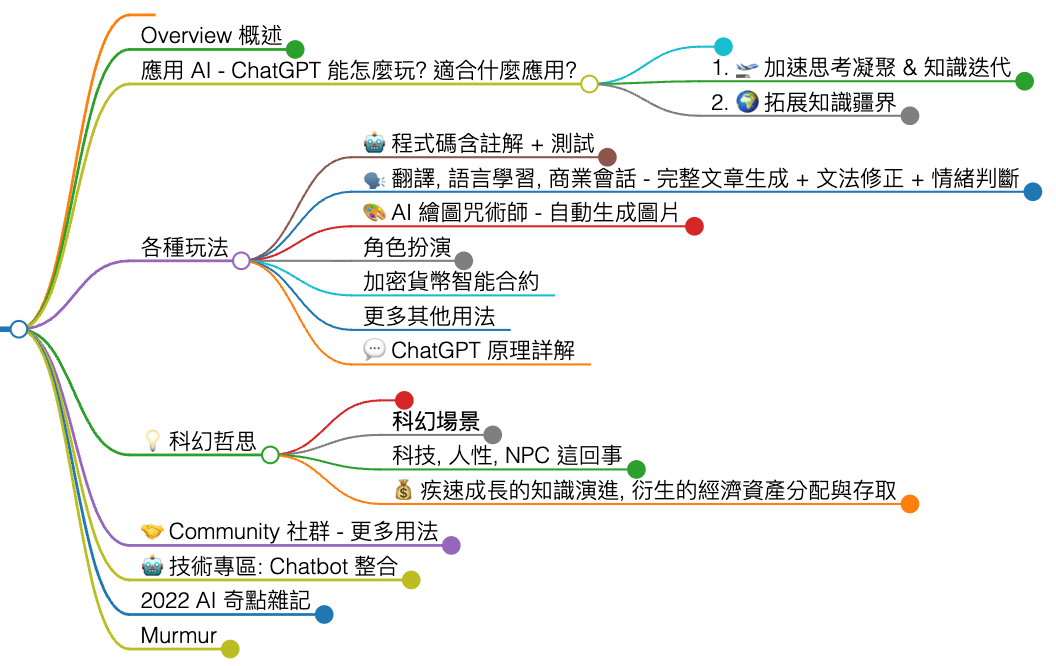
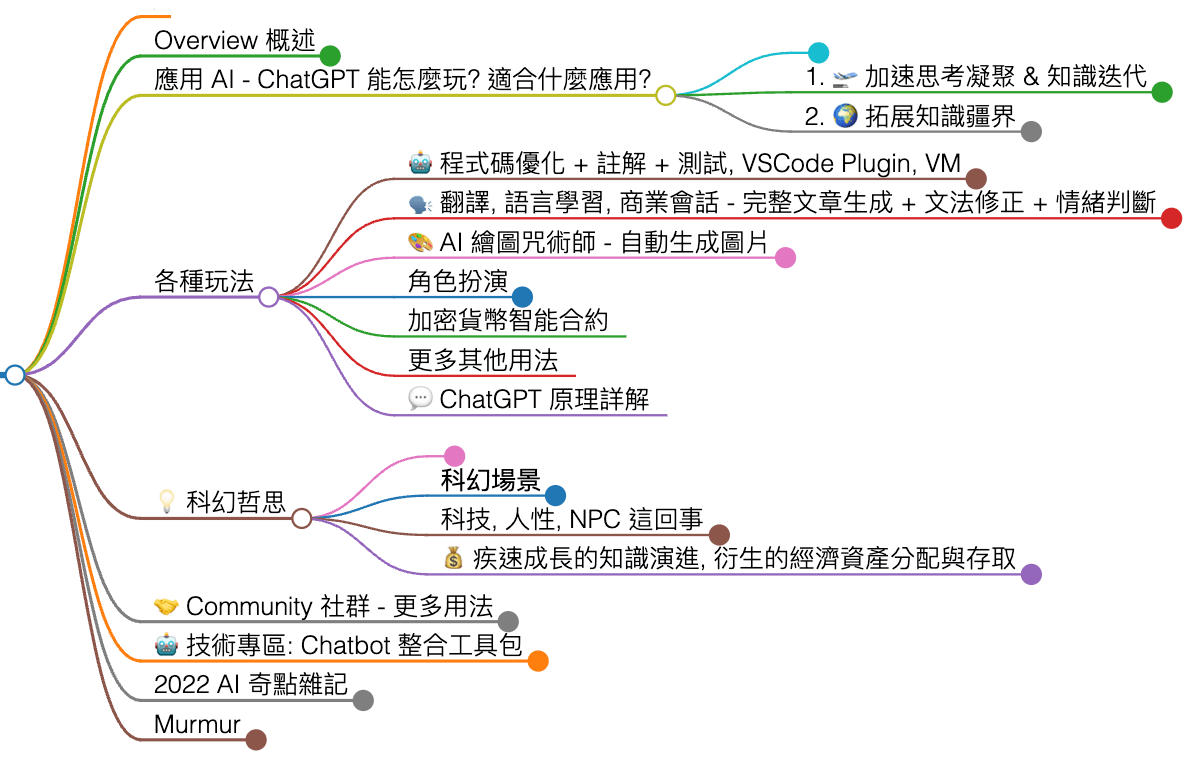
feat: update images

Changed region(s): [[0.0, 0.0, 1.0, 0.991]]

diff --git a/content/tech/chatbot/2022-12-10-chatgpt-applied-ai-reflection.md b/content/tech/chatbot/2022-12-10-chatgpt-applied-ai-reflection.md
@@ -254,7 +254,7 @@ series: chatbot
 * [ChatGPT 時報討論所](https://www.facebook.com/groups/chatgpttimes/)
   * [ChatGPT 可以怎麼幫我分擔工作？](https://www.facebook.com/chatgpttimes/posts/pfbid02z7x6zEPbF86m5hRonSREtECkJo4nYPR4tzio3n8rGBCM8JtwtP8crBjMhb8GrnYcl)
 
-## 🤖 技術專區: Chatbot 整合
+## 🤖 技術專區: Chatbot 整合工具包
 
 你有這樣的困擾嗎?
 
